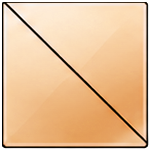
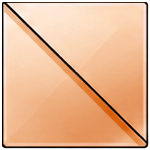
Adding phase physics for proper interference + updated beamsplitter graphics

Changed region(s): [[0.0267, 0.0267, 0.9867, 0.9867]]

diff --git a/sims/optics-lab/src/LabPanel.jsx b/sims/optics-lab/src/LabPanel.jsx
@@ -3,7 +3,7 @@ import { getComponentType, getDefaultFootprint, getRotatedFootprint, hasAngleCon
 import { PC_COLORS } from './colors.js';
 import WaveplateAngleControl from './WaveplateAngleControl.jsx';
 import { SliderPlusTextboxControl } from './controls.jsx';
-import { H_STATE, V_STATE, applyJones, hwpMatrix, qwpMatrix, cAbs2 } from './physics.js';
+import { H_STATE, applyJones, hwpMatrix, qwpMatrix, cAdd, cMul, cAbs2 } from './physics.js';
 
 // Side length (px) of one grid square -- also the placed size of a single-
 // cell component, and the size of the placement ghost in App.jsx. Larger
@@ -141,14 +141,20 @@ function getRotationOffset(type, rotation) {
 
 // --- Photon physics/animation -----------------------------------------
 //
-// A photon's path is a stochastic walk through the placed components, in
-// the same spirit as the Stern-Gerlach sim's samplePath: it samples every
-// probabilistic branch (a beamsplitter) via the Born rule and collapses
-// state accordingly, and the result is a polyline of vertices -- start,
-// one per reflection, and wherever it finally stops -- that the animation
-// loop then just walks at a constant speed. Unlike that sim, there's no
-// separate "theoretical probability" exact companion here; the histogram
-// only ever shows accumulated counts.
+// A photon's fate is worked out in two passes. tracePaths first walks
+// *every* branch coherently -- a beamsplitter recurses into both its
+// transmitted and reflected halves rather than coin-flipping between them,
+// each carrying its own complex amplitude (Jones state, not yet a
+// probability), so that two branches which later land on the same detector
+// add as amplitudes and interfere before anything is squared. Only once all
+// branches have run their course does samplePhotonPath group them by
+// outcome, turn each group's combined amplitude into a probability, and
+// draw one actual outcome for this one photon -- the same "sample after
+// summing amplitudes" order interference always requires, just applied
+// here as the primary simulation rather than as a separate exact overlay
+// (contrast the Stern-Gerlach sim's samplePath, an independent per-photon
+// Monte Carlo walk with no such combining step, next to its own
+// theoreticalProbabilities for the exact version).
 
 const PARTICLE_SPEED = 300; // px/sec, matches the Stern-Gerlach sim's own particles
 const PARTICLE_RADIUS = 4;
@@ -158,10 +164,46 @@ const PARTICLE_COLOR = '#3498db'; // same blue as .control-bar-button etc.
 // canvas edge before being destroyed, rather than stopping right at the
 // boundary line.
 const ESCAPE_RUN_LENGTH = 70;
-// Safety cap on how many components a single photon may interact with --
+// Safety cap on how many components one single branch may pass through --
 // guards against a closed loop of mirrors/beamsplitters the student built
-// (by accident or otherwise) hanging the animation loop forever.
+// (by accident or otherwise) recursing forever.
 const MAX_HOPS = 500;
+// Safety cap on the *total* number of branches a single photon's trace may
+// fork into -- a chain of N beamsplitters forks into up to 2^N branches, so
+// without this a large-but-plausible layout could still blow up combinatorially.
+// Past this budget, tracePaths simply stops forking further (the untraced
+// remainder's amplitude is dropped rather than credited anywhere, which is
+// the same "this is a simplifying safety valve, not real physics" tradeoff
+// MAX_HOPS itself already makes).
+const MAX_TOTAL_BRANCHES = 2000;
+
+// The photon's wavelength, in the same px units as GRID_SIZE -- taken equal
+// to one grid square for now (an explicit simplifying choice, not a derived
+// constant -- see PATH_PHASE below), so two paths differing by a whole
+// number of grid cells arrive back in phase and only a fractional-cell
+// length difference detunes an interferometer. Not yet exposed as a control;
+// a natural place to add one later.
+const WAVELENGTH = GRID_SIZE;
+
+// Multiplies a 2-component Jones state by a complex (or plain real) scalar,
+// applied equally to both components -- used both for a beamsplitter/mirror
+// reflection's amplitude coefficient (magnitude and/or a sign flip) and for
+// the running phase accumulated from travel distance (see pathPhaseFactor).
+function scaleState(state, factor) {
+  const f = typeof factor === 'number' ? { re: factor, im: 0 } : factor;
+  return { h: cMul(f, state.h), v: cMul(f, state.v) };
+}
+
+// e^{i * 2*pi * distance / WAVELENGTH} -- the phase a photon accumulates
+// over `distance` px of straight travel. Multiplying a state by this at
+// every leg of its journey (see tracePaths) is what makes two branches that
+// traveled different total distances to the same detector interfere
+// differently than two that traveled the same distance, exactly the way a
+// real interferometer's arm-length difference does.
+function pathPhaseFactor(distance) {
+  const phase = (2 * Math.PI * distance) / WAVELENGTH;
+  return { re: Math.cos(phase), im: Math.sin(phase) };
+}
 
 // Laser emission geometry, read directly off laser.png: the small nozzle at
 // the barrel's right end -- its actual "opening" -- sits at the unrotated
@@ -308,25 +350,59 @@ function cellCenter(col, row) {
   return { x: (col + 0.5) * GRID_SIZE, y: (row + 0.5) * GRID_SIZE };
 }
 
-// Walks one photon from the laser through the placed components. Returns
-// the polyline of vertices it actually traveled (every straight run's
-// endpoints) and how it stopped: { type: 'detected', detectorId } | {
-// type: 'absorbed' } | { type: 'escaped' } (ran off the canvas, or -- see
-// MAX_HOPS -- got stuck in a loop of mirrors/beamsplitters long enough that
-// this gives up on it same as if it had escaped).
-function samplePhotonPath(laserComp, cellMap, cols, rows) {
+// Whether `entrySide` is the "front" (not-dark, coated) face of a 1x1
+// cell's rotating diagonal at this rotation -- the same face mirrorOutcome
+// reflects from. Reused for beamsplitters too, purely for the reflection
+// phase below: front-face reflection picks up a pi phase shift (r = -1),
+// same as a real coated surface's external reflection; the back face and
+// straight transmission (either face) don't. That asymmetry -- "one port"
+// of the beamsplitter gaining a phase the others don't -- is what makes a
+// symmetric Mach-Zehnder interfere onto a single output instead of
+// splitting 50/50, the same way a real one does.
+function isFrontEntry(rotation, entrySide) {
+  return mirrorReflectivePair(rotation).includes(entrySide);
+}
+
+// Recursively walks every coherent branch of one photon's wavefunction
+// through the placed components. A beamsplitter forks into *both* its
+// transmitted and reflected halves (rather than samplePhotonPath's old
+// per-hop coin flip), each carrying its own share of the state -- still
+// complex amplitude, not yet a probability. Every finished branch (however
+// it ends) is pushed onto `results` as { outcome, state, points }: two
+// branches that both end up 'detected' at the same detector are meant to be
+// summed back together (as amplitudes, before squaring) by the caller --
+// see samplePhotonPath -- which is the actual interference step; nothing
+// here decides who "wins", it just reports what every branch carried.
+//
+// `state` is scaled by pathPhaseFactor for every leg of travel (so two
+// branches of different total length decohere/recohere correctly by the
+// time they reach a shared detector) and by isFrontEntry's r = -1 on every
+// front-face reflection (mirror or beamsplitter alike). A mirror's
+// reflection is otherwise full-strength (|r| = 1, it doesn't split); an
+// NPBS's is a 50/50 magnitude split on both branches (|r| = |t| = 1/sqrt2,
+// polarization untouched); a PBS instead splits *by component* -- H
+// transmits whole, V reflects whole -- which is what keeps differently-
+// polarized light from interfering with itself: two states that don't
+// share a component (H vs V) simply have nothing to add when summed.
+function tracePaths(laserComp, cellMap, cols, rows) {
   const emission = getLaserEmission(laserComp);
-  let dir = emission.dir;
   const jitter = (Math.random() - 0.5) * LASER_APERTURE_WIDTH;
-  let pos = dir.x !== 0 ? { x: emission.x, y: emission.y + jitter } : { x: emission.x + jitter, y: emission.y };
-  let state = H_STATE; // the laser's own fixed emission polarization
-  let col = Math.floor(pos.x / GRID_SIZE);
-  let row = Math.floor(pos.y / GRID_SIZE);
+  const startPos = emission.dir.x !== 0
+    ? { x: emission.x, y: emission.y + jitter }
+    : { x: emission.x + jitter, y: emission.y };
 
-  const points = [pos];
-  let outcome = { type: 'escaped' };
+  const results = [];
+  let branchBudget = MAX_TOTAL_BRANCHES;
 
-  hopLoop: for (let hop = 0; hop < MAX_HOPS; hop++) {
+  function walk(pos, dir, state, points, hop) {
+    if (branchBudget-- <= 0) return; // drop this branch's remaining amplitude -- see MAX_TOTAL_BRANCHES
+    if (hop > MAX_HOPS) {
+      results.push({ outcome: { type: 'escaped' }, state, points });
+      return;
+    }
+
+    let col = Math.floor(pos.x / GRID_SIZE);
+    let row = Math.floor(pos.y / GRID_SIZE);
     let hitComp;
     for (;;) {
       col += dir.x;
@@ -335,9 +411,9 @@ function samplePhotonPath(laserComp, cellMap, cols, rows) {
         const exitPoint = dir.x !== 0
           ? { x: dir.x > 0 ? cols * GRID_SIZE : 0, y: pos.y }
           : { x: pos.x, y: dir.y > 0 ? rows * GRID_SIZE : 0 };
-        points.push(exitPoint);
-        outcome = { type: 'escaped' };
-        break hopLoop;
+        const dist = Math.hypot(exitPoint.x - pos.x, exitPoint.y - pos.y);
+        results.push({ outcome: { type: 'escaped' }, state: scaleState(state, pathPhaseFactor(dist)), points: [...points, exitPoint] });
+        return;
       }
       const found = cellMap.get(`${col},${row}`);
       if (found) { hitComp = found; break; }
@@ -346,52 +422,112 @@ function samplePhotonPath(laserComp, cellMap, cols, rows) {
     const type = getComponentType(hitComp.type);
     const entrySide = dir.x > 0 ? 'left' : dir.x < 0 ? 'right' : dir.y > 0 ? 'top' : 'bottom';
 
-    if (type.physicsKind === 'block') {
-      points.push(cellEntryPoint(col, row, dir, pos));
-      outcome = { type: 'absorbed' };
-      break;
+    // Terminal absorption/detection happens right at the cell's near edge
+    // -- the photon never travels any further into the block/detector than
+    // that, so that's exactly how far its phase needs to advance too.
+    if (type.physicsKind === 'block' || type.physicsKind === 'detector') {
+      const point = cellEntryPoint(col, row, dir, pos);
+      const dist = Math.hypot(point.x - pos.x, point.y - pos.y);
+      const arrived = scaleState(state, pathPhaseFactor(dist));
+      const outcome = type.physicsKind === 'block' ? { type: 'absorbed' } : { type: 'detected', detectorId: hitComp.id };
+      results.push({ outcome, state: arrived, points: [...points, point] });
+      return;
     }
-    if (type.physicsKind === 'detector') {
-      points.push(cellEntryPoint(col, row, dir, pos));
-      outcome = { type: 'detected', detectorId: hitComp.id };
-      break;
-    }
+
+    // Every other kind interacts at the cell's own center (where its
+    // diagonal actually is, or -- for a wave plate -- just a stand-in for
+    // "the middle of this idealized, thickness-free element") -- so that's
+    // the point both the phase and (for a reflection) the new direction get
+    // evaluated from.
+    const center = cellCenter(col, row);
+    const dist = Math.hypot(center.x - pos.x, center.y - pos.y);
+    const arrived = scaleState(state, pathPhaseFactor(dist));
+
     if (type.physicsKind === 'hwp' || type.physicsKind === 'qwp') {
       const matrix = type.physicsKind === 'hwp' ? hwpMatrix(hitComp.angle ?? 0) : qwpMatrix(hitComp.angle ?? 0);
-      state = applyJones(matrix, state);
-      continue; // straight through -- no bend, no new vertex
+      walk(center, dir, applyJones(matrix, arrived), points, hop + 1); // straight through -- no bend, no new vertex
+      return;
     }
+
     if (type.physicsKind === 'mirror') {
       const res = mirrorOutcome(hitComp.rotation, entrySide);
       if (res.type === 'absorb') {
-        points.push(cellEntryPoint(col, row, dir, pos));
-        outcome = { type: 'absorbed' };
-        break;
+        results.push({ outcome: { type: 'absorbed' }, state: arrived, points: [...points, cellEntryPoint(col, row, dir, pos)] });
+        return;
       }
-      pos = cellCenter(col, row);
-      points.push(pos);
-      dir = SIDE_TO_EXIT_DIR[res.exitSide];
-      continue;
+      walk(center, SIDE_TO_EXIT_DIR[res.exitSide], scaleState(arrived, -1), [...points, center], hop + 1);
+      return;
     }
-    // npbs / pbs: reflect-vs-transmit is a 50/50 coin flip for the
-    // polarization-agnostic NPBS, or a Born-rule draw against the current
-    // state's own V-amplitude for the PBS (which also collapses state to
-    // whichever of H/V that branch corresponds to -- a PBS is a real
-    // projective measurement in the H/V basis, unlike the NPBS).
+
+    // npbs / pbs: both branches are always taken (this is the coherent
+    // trace -- samplePhotonPath is what turns this into one random draw).
     const reflectExitSide = beamsplitterReflectExit(hitComp.rotation, entrySide);
-    const reflectProb = type.physicsKind === 'pbs' ? cAbs2(state.v) : 0.5;
-    if (Math.random() < reflectProb) {
-      if (type.physicsKind === 'pbs') state = V_STATE;
-      pos = cellCenter(col, row);
-      points.push(pos);
-      dir = SIDE_TO_EXIT_DIR[reflectExitSide];
+    const reflectPhase = isFrontEntry(hitComp.rotation, entrySide) ? -1 : 1;
+    if (type.physicsKind === 'pbs') {
+      const transmitState = { h: arrived.h, v: { re: 0, im: 0 } };
+      const reflectState = { h: { re: 0, im: 0 }, v: scaleState(arrived, reflectPhase).v };
+      if (cAbs2(transmitState.h) > 0) walk(center, dir, transmitState, points, hop + 1);
+      if (cAbs2(reflectState.v) > 0) walk(center, SIDE_TO_EXIT_DIR[reflectExitSide], reflectState, [...points, center], hop + 1);
     } else {
-      if (type.physicsKind === 'pbs') state = H_STATE;
-      // transmits straight through -- no bend, no new vertex
+      walk(center, dir, scaleState(arrived, Math.SQRT1_2), points, hop + 1);
+      walk(center, SIDE_TO_EXIT_DIR[reflectExitSide], scaleState(arrived, reflectPhase * Math.SQRT1_2), [...points, center], hop + 1);
     }
   }
 
-  return { points, outcome };
+  walk(startPos, emission.dir, H_STATE, [startPos], 0);
+  return results;
+}
+
+// Turns tracePaths' full coherent branch set into one sampled outcome for
+// one actual photon: branches that reach the *same* detector are summed as
+// amplitudes first (interference), then every remaining outcome -- each
+// detector's combined probability, plus every individually-absorbed or
+// -escaped branch on its own -- is drawn from as a plain weighted lottery.
+// Absorbed/escaped branches are deliberately *not* pooled the way detector
+// hits are: nothing recombines them into a shared measurement, so (unlike
+// two paths reuniting at a detector) they stay distinguishable and just
+// don't interfere with each other. Returns the same { points, outcome }
+// shape the old per-photon walk did, so buildPhotonSegments/spawnParticle
+// don't need to know any of this changed.
+function samplePhotonPath(laserComp, cellMap, cols, rows) {
+  const branches = tracePaths(laserComp, cellMap, cols, rows);
+
+  const detectorGroups = new Map(); // detectorId -> { state, members: [branch, ...] }
+  const outcomes = []; // { prob, points, state } -- one entry per final lottery ticket
+  branches.forEach((branch) => {
+    if (branch.outcome.type === 'detected') {
+      const id = branch.outcome.detectorId;
+      const group = detectorGroups.get(id) ?? { state: { h: { re: 0, im: 0 }, v: { re: 0, im: 0 } }, members: [] };
+      group.state = { h: cAdd(group.state.h, branch.state.h), v: cAdd(group.state.v, branch.state.v) };
+      group.members.push(branch);
+      detectorGroups.set(id, group);
+    } else {
+      outcomes.push({ prob: cAbs2(branch.state.h) + cAbs2(branch.state.v), outcome: branch.outcome, points: branch.points });
+    }
+  });
+  detectorGroups.forEach((group, detectorId) => {
+    const prob = cAbs2(group.state.h) + cAbs2(group.state.v);
+    // Animate whichever contributing branch happens to be sampled, weighted
+    // by its own individual (pre-interference) probability -- a
+    // visualization choice, not a physical one: interference has already
+    // been fully accounted for in `prob` above by the time this runs.
+    let pick = Math.random() * group.members.reduce((sum, m) => sum + cAbs2(m.state.h) + cAbs2(m.state.v), 0);
+    let points = group.members[group.members.length - 1].points;
+    for (const member of group.members) {
+      pick -= cAbs2(member.state.h) + cAbs2(member.state.v);
+      if (pick <= 0) { points = member.points; break; }
+    }
+    outcomes.push({ prob, outcome: { type: 'detected', detectorId }, points });
+  });
+
+  const totalProb = outcomes.reduce((sum, o) => sum + o.prob, 0);
+  let draw = Math.random() * totalProb;
+  for (const o of outcomes) {
+    draw -= o.prob;
+    if (draw <= 0) return { points: o.points, outcome: o.outcome };
+  }
+  const last = outcomes[outcomes.length - 1];
+  return { points: last.points, outcome: last.outcome };
 }
 
 function segmentLength(seg) {
